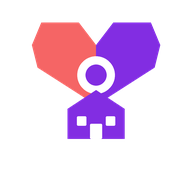
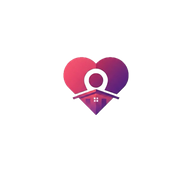
chore: update branding and splash

Changed region(s): [[0.1562, 0.0938, 0.8438, 0.75]]

diff --git a/app/jahatelo-app/components/AnimatedSplash.js b/app/jahatelo-app/components/AnimatedSplash.js
@@ -1,21 +1,16 @@
 import { useEffect, useRef } from 'react';
-import { Animated, StyleSheet, Text, View } from 'react-native';
-import HeartLogo from './HeartLogo';
+import { Animated, StyleSheet, View } from 'react-native';
+import LottieView from 'lottie-react-native';
 
 const COLORS = {
   background: '#FFFFFF',
-  title: '#2A0038',
-  subtitle: '#705B85',
 };
 
-export default function AnimatedSplash() {
+export default function AnimatedSplash({ onFinish }) {
   // Valores de animación
   const fadeAnim = useRef(new Animated.Value(0)).current;
   const scaleAnim = useRef(new Animated.Value(0.5)).current;
-  const heartPulseAnim = useRef(new Animated.Value(1)).current;
   const pinDropAnim = useRef(new Animated.Value(-50)).current;
-  const textFadeAnim = useRef(new Animated.Value(0)).current;
-  const textSlideAnim = useRef(new Animated.Value(30)).current;
 
   useEffect(() => {
     // Secuencia de entrada del logo
@@ -43,69 +38,31 @@ export default function AnimatedSplash() {
       }),
       // 3. Delay pequeño
       Animated.delay(150),
-      // 4. Fade in del texto
-      Animated.parallel([
-        Animated.timing(textFadeAnim, {
-          toValue: 1,
-          duration: 600,
-          useNativeDriver: true,
-        }),
-        Animated.spring(textSlideAnim, {
-          toValue: 0,
-          tension: 35,
-          friction: 8,
-          useNativeDriver: true,
-        }),
-      ]),
-    ]).start(() => {
-      // 5. Iniciar animación de pulso del corazón
-      Animated.loop(
-        Animated.sequence([
-          Animated.timing(heartPulseAnim, {
-            toValue: 1.05,
-            duration: 800,
-            useNativeDriver: true,
-          }),
-          Animated.timing(heartPulseAnim, {
-            toValue: 1,
-            duration: 800,
-            useNativeDriver: true,
-          }),
-        ])
-      ).start();
-    });
+    ]).start();
   }, []);
 
   return (
     <View style={styles.container}>
-      {/* Logo animado con efecto de pulso en el corazón */}
+      {/* Logo oficial */}
       <Animated.View
         style={[
           styles.logoContainer,
           {
             opacity: fadeAnim,
             transform: [
-              { scale: Animated.multiply(scaleAnim, heartPulseAnim) },
+              { scale: scaleAnim },
               { translateY: pinDropAnim },
             ],
           },
         ]}
       >
-        <HeartLogo size={180} />
-      </Animated.View>
-
-      {/* Textos animados */}
-      <Animated.View
-        style={[
-          styles.textContainer,
-          {
-            opacity: textFadeAnim,
-            transform: [{ translateY: textSlideAnim }],
-          },
-        ]}
-      >
-        <Text style={styles.title}>Jahatelo</Text>
-        <Text style={styles.subtitle}>Moteles cerca tuyo, al instante</Text>
+        <LottieView
+          source={require('../assets/logo-lottie.json')}
+          autoPlay
+          loop={false}
+          onAnimationFinish={() => onFinish?.()}
+          style={styles.logo}
+        />
       </Animated.View>
     </View>
   );
@@ -119,25 +76,13 @@ const styles = StyleSheet.create({
     backgroundColor: COLORS.background,
   },
   logoContainer: {
-    width: 200,
-    height: 200,
+    width: 260,
+    height: 260,
     alignItems: 'center',
     justifyContent: 'center',
   },
-  textContainer: {
-    alignItems: 'center',
-    marginTop: 24,
-  },
-  title: {
-    fontSize: 32,
-    fontWeight: '700',
-    color: COLORS.title,
-    letterSpacing: 0.5,
-  },
-  subtitle: {
-    marginTop: 8,
-    fontSize: 15,
-    color: COLORS.subtitle,
-    fontWeight: '400',
+  logo: {
+    width: 260,
+    height: 260,
   },
 });

diff --git a/app/jahatelo-app/screens/SplashScreen.js b/app/jahatelo-app/screens/SplashScreen.js
@@ -1,20 +1,28 @@
-import React, { useEffect } from 'react';
+import React, { useEffect, useRef } from 'react';
 import { StyleSheet } from 'react-native';
 import { SafeAreaView } from 'react-native-safe-area-context';
 import AnimatedSplash from '../components/AnimatedSplash';
 
 export default function SplashScreen({ navigation }) {
+  const didNavigate = useRef(false);
+
+  const goNext = () => {
+    if (didNavigate.current) return;
+    didNavigate.current = true;
+    navigation.replace('AgeGate');
+  };
+
   useEffect(() => {
     const timer = setTimeout(() => {
-      navigation.replace('AgeGate');
-    }, 3000); // 3 segundos para que se vea toda la animación
+      goNext();
+    }, 3500);
 
     return () => clearTimeout(timer);
   }, [navigation]);
 
   return (
     <SafeAreaView style={styles.container} edges={['top', 'bottom']}>
-      <AnimatedSplash />
+      <AnimatedSplash onFinish={goNext} />
     </SafeAreaView>
   );
 }

diff --git a/web/jahatelo-web/components/public/CategoriesGrid.tsx b/web/jahatelo-web/components/public/CategoriesGrid.tsx
@@ -35,6 +35,12 @@ const icons: Record<string, ReactElement> = {
       <path strokeLinecap="round" strokeLinejoin="round" strokeWidth={2} d="M9.879 16.121A3 3 0 1012.015 11L11 14H9c0 .768.293 1.536.879 2.121z" />
     </svg>
   ),
+  pricetag: (
+    <svg className="w-6 h-6" fill="none" stroke="currentColor" viewBox="0 0 24 24">
+      <path strokeLinecap="round" strokeLinejoin="round" strokeWidth={2} d="M7 7h5l7 7-5 5-7-7V7z" />
+      <circle cx="9.5" cy="9.5" r="1.5" />
+    </svg>
+  ),
 };
 
 export default function CategoriesGrid({ categories }: CategoriesGridProps) {

diff --git a/web/jahatelo-web/app/page.tsx b/web/jahatelo-web/app/page.tsx
@@ -110,7 +110,7 @@ export default async function HomePage() {
   const categories = [
     { id: 'cities', label: 'Moteles por ciudad', href: '/motels', iconName: 'location-outline' },
     { id: 'map', label: 'Ver mapa', href: '/mapa', iconName: 'map-outline' },
-    { id: 'popular', label: 'Populares', href: '/motels', iconName: 'flame-outline' },
+    { id: 'promos', label: 'Promos', href: '/motels', iconName: 'pricetag' },
   ];
 
   return (
